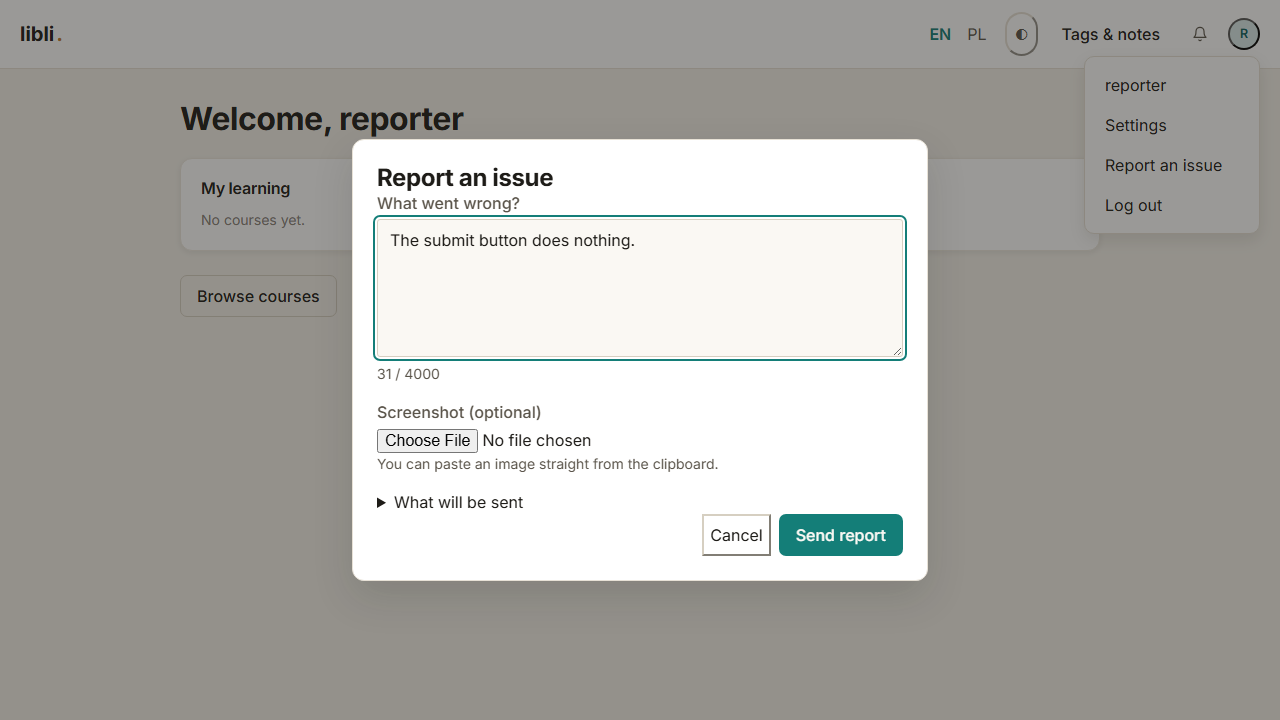
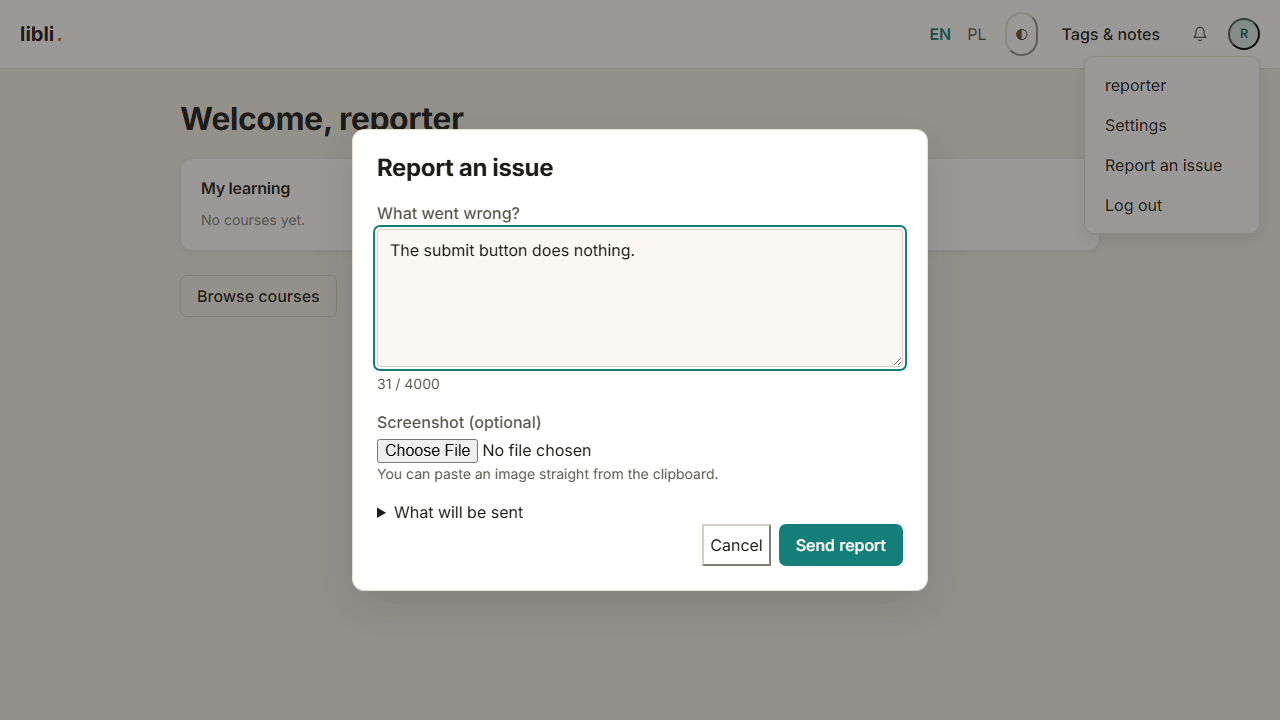
fix(support): dialog title/label spacing collision (Task 11 review round 1)
reset.css's `* { margin: 0 }` also strips the <h2>'s default bottom margin —
the same root cause as the dialog-centring defect fixed earlier in this task
— so "Report an issue" sat ~8px above "What went wrong?" while every other
group in the dialog had ~20px+ separation. Restore it explicitly via
.report-dialog h2 { margin-block-end: var(--space-5) }, picked by eye against
the re-captured screenshots.

Audited the other headings touched in this task (reporters.html and
report_list.html's bare <h1>, report_detail.html's <h2>s) for the same
collision: those match an already-shipped, repeated site-wide convention
(e.g. node_confirm_delete.html, course_confirm_delete.html use the identical
bare h1-directly-above-p pattern) or are separated by a bordered/padded box
(.alert, fieldset), so left alone. The one real second instance was
report_detail.html's <h1> sitting directly above .report-meta whenever a
report has already been emailed (the alert--warning box that would otherwise
separate them is absent in that branch) — fixed with margin-top: var(--space-4)
on .report-meta.

Changed region(s): [[0.2812, 0.1528, 0.7188, 0.3667], [0.2812, 0.4889, 0.7188, 0.7333], [0.25, 0.7028, 0.75, 0.825]]

diff --git a/support/static/support/css/support.css b/support/static/support/css/support.css
@@ -17,6 +17,13 @@ label:has([data-out-of-roster]) { color: var(--text-secondary); }
      the dialog pins to the top-left in both themes. */
   margin: auto;
 }
+.report-dialog h2 {
+  /* reset.css's `* { margin: 0; }` strips the UA default bottom margin an
+     <h2> would otherwise have — the same root cause as the dialog-centring
+     defect above. Restore it explicitly from the token scale so the title
+     does not collide with "What went wrong?" directly beneath it. */
+  margin-block-end: var(--space-5);
+}
 .report-dialog::backdrop { background: var(--surface-overlay); }
 .report-dialog textarea { width: 100%; }
 .report-dialog__counter { color: var(--text-secondary); font-size: 0.875rem; }
@@ -79,6 +86,11 @@ label:has([data-out-of-roster]) { color: var(--text-secondary); }
   grid-template-columns: auto 1fr;
   gap: var(--space-1) var(--space-3);
   align-items: baseline;
+  /* When the report HAS been emailed, the alert--warning box above is absent,
+     so <h1> sits directly above this grid with the same reset.css margin
+     collision the dialog title had — restore the gap explicitly. Harmless in
+     the unmailed branch too: .alert already carries its own margin-bottom. */
+  margin-top: var(--space-4);
   margin-bottom: var(--space-5);
 }
 .report-meta dt { color: var(--text-tertiary); font-size: .8rem; }
